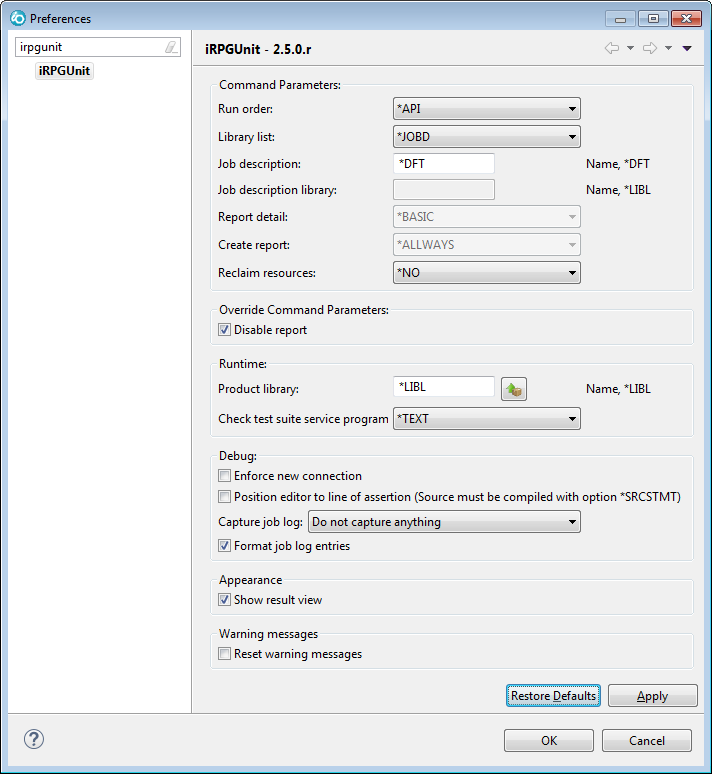
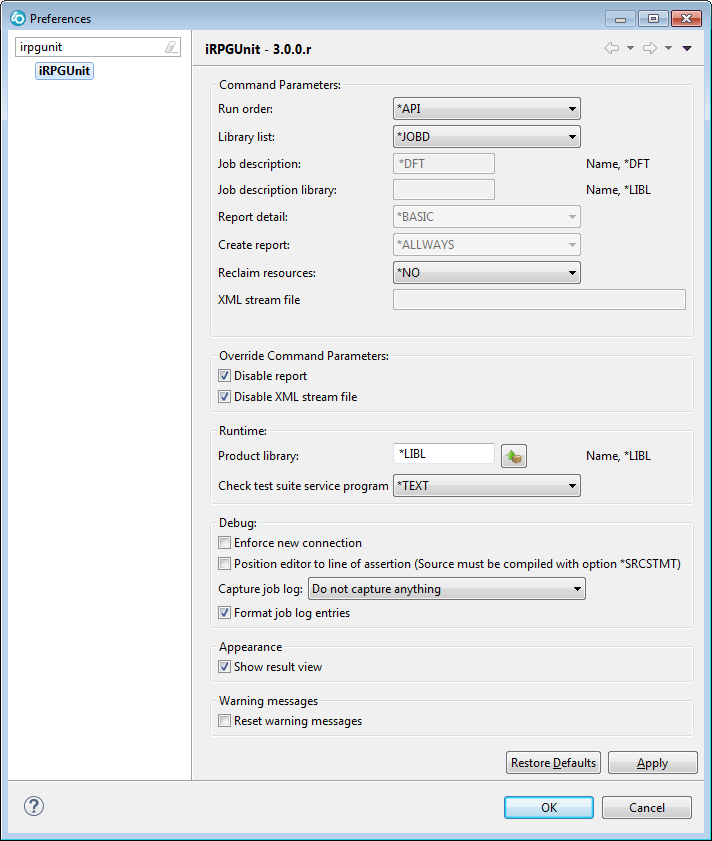
Added parameter 'XML stream file' to plug-in.

diff --git a/eclipse/iRPGUnit Help Plugin/html/quickstart/preferences.html b/eclipse/iRPGUnit Help Plugin/html/quickstart/preferences.html
@@ -108,6 +108,10 @@ Temporary disables the report, provided that <i>'Create report'</i> does not spe
 relates to button <i>'Disable iRPGUnit report'</i> of the <i>'iRPGUnit'</i> view.<p>
 <p>
 
+<h3>Disable XML stream file</h3>
+Temporary disables writing the XML stream file.
+<p>
+
 <h3>Product library</h3>
 Specifies the RPGUnit product library. This value is used to locate program 'RUPGMRMT' which is called from the 
 plug-in to execute the unit tests.<p>

diff --git a/eclipse/iRPGUnit Core Plugin/src/de/tools400/rpgunit/core/ui/preferences/PreferencesPage.java b/eclipse/iRPGUnit Core Plugin/src/de/tools400/rpgunit/core/ui/preferences/PreferencesPage.java
@@ -62,7 +62,11 @@ public class PreferencesPage extends PreferencePage implements IWorkbenchPrefere
 
     private Combo cboReclaimResources;
 
+    private Text txtXmlStmf;
+
     private Button chkDisableReport;
+
+    private Button chkDisableXmlStmf;
 
     private Text txtProductLibrary;
 
@@ -237,6 +241,17 @@ public class PreferencesPage extends PreferencePage implements IWorkbenchPrefere
         cboReclaimResources.setToolTipText(Messages.PreferencesPage2_cboReclaimResources_toolTipText);
         cboReclaimResources.setLayoutData(new GridData(SWT.FILL, SWT.CENTER, true, false, 1, 1));
         new Label(grpCommandParameters, SWT.NONE);
+
+        Label lblXmlStmf = new Label(grpCommandParameters, SWT.NONE);
+        GridData gd_lblXmlStmf = new GridData(SWT.LEFT, SWT.CENTER, false, false, 1, 1);
+        gd_lblXmlStmf.widthHint = COLUMN_1_WIDTH;
+        lblXmlStmf.setLayoutData(gd_lblXmlStmf);
+        lblXmlStmf.setText(Messages.PreferencesPage2_lblXmlStmf_text);
+
+        txtXmlStmf = new Text(grpCommandParameters, SWT.BORDER);
+        txtXmlStmf.setToolTipText(Messages.PreferencesPage2_txtXmlStmf_toolTipText);
+        txtXmlStmf.setLayoutData(new GridData(SWT.FILL, SWT.CENTER, true, false, 2, 1));
+        new Label(grpCommandParameters, SWT.NONE);
     }
 
     private void createGroupOverrideCommandParameters(Composite mainPanel) {
@@ -256,6 +271,16 @@ public class PreferencesPage extends PreferencePage implements IWorkbenchPrefere
         });
         chkDisableReport.setToolTipText(Messages.PreferencesPage2_chkDisableReport_toolTipText);
         chkDisableReport.setText(Messages.PreferencesPage2_chkDisableReport_text);
+
+        chkDisableXmlStmf = new Button(grpOverrideCommandParameters, SWT.CHECK);
+        chkDisableXmlStmf.addSelectionListener(new SelectionAdapter() {
+            @Override
+            public void widgetSelected(SelectionEvent e) {
+                updateXmlStmfControlsEnablement();
+            }
+        });
+        chkDisableXmlStmf.setToolTipText(Messages.PreferencesPage2_chkDisableXmlStmf_toolTipText);
+        chkDisableXmlStmf.setText(Messages.PreferencesPage2_chkDisableXmlStmf_text);
     }
 
     private void createGroupRuntimeParameters(Composite mainPanel) {
@@ -398,9 +423,11 @@ public class PreferencesPage extends PreferencePage implements IWorkbenchPrefere
         txtJobDesc.setText(getPreferences().getJobDescription().getName());
         txtJobDescLib.setText(getPreferences().getJobDescription().getLibrary());
         chkDisableReport.setSelection(getPreferences().isReportDisabled());
+        chkDisableXmlStmf.setSelection(getPreferences().isXmlStmfDisabled());
         cboReportDetail.setText(getPreferences().getDetail());
         cboCreateReport.setText(getPreferences().getOutput());
         cboReclaimResources.setText(getPreferences().getReclaimResources());
+        txtXmlStmf.setText(getPreferences().getXmlStmf());
         txtProductLibrary.setText(getPreferences().getProductLibrary());
         cboCheckTestSuite.setText(getPreferences().getCheckTestSuite());
         chkNewConnection.setSelection(getPreferences().mustCreateNewConnection());
@@ -419,8 +446,11 @@ public class PreferencesPage extends PreferencePage implements IWorkbenchPrefere
         txtJobDesc.setText(getPreferences().getDefaultJobDescription().getName());
         txtJobDescLib.setText(getPreferences().getDefaultJobDescription().getLibrary());
         chkDisableReport.setSelection(getPreferences().getDefaultReportDisabledState());
+        chkDisableXmlStmf.setSelection(getPreferences().getDefaultXmlStmfDisabledState());
         cboReportDetail.setText(getPreferences().getDefaultDetail());
         cboCreateReport.setText(getPreferences().getDefaultOutput());
+        cboReclaimResources.setText(getPreferences().getDefaultReclaimResources());
+        txtXmlStmf.setText(getPreferences().getDefaultXmlStmf());
         txtProductLibrary.setText(getPreferences().getDefaultProductLibrary());
         cboCheckTestSuite.setText(getPreferences().getDefaultCheckTestSuite());
         chkNewConnection.setSelection(getPreferences().getDefaultConnectionState());
@@ -431,6 +461,7 @@ public class PreferencesPage extends PreferencePage implements IWorkbenchPrefere
         chkWarnMessages.setSelection(false);
 
         updateReportControlsEnablement();
+        updateXmlStmfControlsEnablement();
     }
 
     @Override
@@ -448,8 +479,10 @@ public class PreferencesPage extends PreferencePage implements IWorkbenchPrefere
         tPreferences.setDetail(cboReportDetail.getText());
         tPreferences.setOutput(cboCreateReport.getText());
         tPreferences.setReclaimResources(cboReclaimResources.getText());
+        tPreferences.setXmlStmf(txtXmlStmf.getText());
 
         tPreferences.setReportDisabled(chkDisableReport.getSelection());
+        tPreferences.setXmlStmfDisabled(chkDisableXmlStmf.getSelection());
 
         tPreferences.setProductLibrary(txtProductLibrary.getText());
 
@@ -489,6 +522,7 @@ public class PreferencesPage extends PreferencePage implements IWorkbenchPrefere
     private void updateControlsOnEnterPage() {
         updateWarningMessagesControlsEnablement();
         updateReportControlsEnablement();
+        updateXmlStmfControlsEnablement();
 
         String[] tLibraryList = getPreferences().getLibraryList();
         if (tLibraryList.length == 1) {
@@ -521,6 +555,11 @@ public class PreferencesPage extends PreferencePage implements IWorkbenchPrefere
         boolean tEnabled = !chkDisableReport.getSelection();
         cboReportDetail.setEnabled(tEnabled);
         cboCreateReport.setEnabled(tEnabled);
+    }
+
+    private void updateXmlStmfControlsEnablement() {
+        boolean tEnabled = !chkDisableXmlStmf.getSelection();
+        txtXmlStmf.setEnabled(tEnabled);
     }
 
     private void updateJobDescriptionControlsEnablement(String aFirstLibraryListEntry) {

diff --git a/eclipse/iRPGUnit Core Plugin/src/de/tools400/rpgunit/core/preferences/Preferences.java b/eclipse/iRPGUnit Core Plugin/src/de/tools400/rpgunit/core/preferences/Preferences.java
@@ -102,6 +102,10 @@ public final class Preferences {
 
     public static final String RECLAIM_RESOURCES_ONCE = "*ONCE"; //$NON-NLS-1$
 
+    public static final String XML_STMF = RMTPGM + ".xmlStmf"; //$NON-NLS-1$
+
+    public static final String XML_STMF_NONE = ""; //$NON-NLS-1$
+
     /**
      * RPGUnit warning messages:
      */
@@ -127,6 +131,15 @@ public final class Preferences {
     public static final Boolean REPORT_DISABLED_TRUE = true;
 
     public static final Boolean REPORT_DISABLED_FALSE = false;
+
+    /**
+     * Values controlling xml stream file enablement:
+     */
+    public static final String XML_STMF_DISABLED = XML_STMF + ".disabled"; //$NON-NLS-1$
+
+    public static final Boolean XML_STMF_DISABLED_TRUE = true;
+
+    public static final Boolean XML_STMF_DISABLED_FALSE = false;
 
     /**
      * Product library.
@@ -280,8 +293,18 @@ public final class Preferences {
         return getReclaimResources();
     }
 
+    public String getXmlStmf() {
+        String tXmlStmf = preferenceStore.getString(XML_STMF);
+        return tXmlStmf;
+    }
+
     public boolean isReportDisabled() {
         boolean tIsDisabled = preferenceStore.getBoolean(REPORT_DISABLED);
+        return tIsDisabled;
+    }
+
+    public boolean isXmlStmfDisabled() {
+        boolean tIsDisabled = preferenceStore.getBoolean(XML_STMF_DISABLED);
         return tIsDisabled;
     }
 
@@ -407,6 +430,10 @@ public final class Preferences {
         saveReportDisabledState(aDisabled);
     }
 
+    public void setXmlStmfDisabled(boolean aDisabled) {
+        saveXmlStmfDisabledState(aDisabled);
+    }
+
     public void setDebugConnectionNew(boolean aCreateNew) {
         saveDebugConnectionState(aCreateNew);
     }
@@ -429,6 +456,10 @@ public final class Preferences {
 
     public void setReclaimResources(String aRclRsc) {
         saveReclaimResources(aRclRsc);
+    }
+
+    public void setXmlStmf(String aXmlStmf) {
+        saveXmlStmf(aXmlStmf);
     }
 
     public boolean useJobDescriptionForLibraryList() {
@@ -515,7 +546,9 @@ public final class Preferences {
         preferenceStore.setDefault(JOBD_LIBRARY, getDefaultJobDescription().getLibrary());
         preferenceStore.setDefault(REPORT_DETAIL, getDefaultDetail());
         preferenceStore.setDefault(REPORT_DISABLED, getDefaultReportDisabledState());
+        preferenceStore.setDefault(XML_STMF_DISABLED, getDefaultXmlStmfDisabledState());
         preferenceStore.setDefault(RECLAIM_RESOURCES, getDefaultReclaimResources());
+        preferenceStore.setDefault(XML_STMF, getDefaultXmlStmf());
 
         // Override command parameters
         preferenceStore.setDefault(OUTPUT, getDefaultOutput());
@@ -627,6 +660,10 @@ public final class Preferences {
         return REPORT_DISABLED_TRUE;
     }
 
+    public boolean getDefaultXmlStmfDisabledState() {
+        return XML_STMF_DISABLED_TRUE;
+    }
+
     public boolean getDefaultConnectionState() {
         return DEBUG_CONNECTION_REUSE;
     }
@@ -654,6 +691,10 @@ public final class Preferences {
 
     public String getDefaultReclaimResources() {
         return RECLAIM_RESOURCES_NO;
+    }
+
+    public String getDefaultXmlStmf() {
+        return XML_STMF_NONE;
     }
 
     public boolean getDefaultShowWarnMessages() {
@@ -748,6 +789,10 @@ public final class Preferences {
         preferenceStore.setValue(REPORT_DISABLED, aDisabled);
     }
 
+    private void saveXmlStmfDisabledState(boolean aDisabled) {
+        preferenceStore.setValue(XML_STMF_DISABLED, aDisabled);
+    }
+
     private void saveDebugConnectionState(boolean aCreateNew) {
         preferenceStore.setValue(DEBUG_CONNECTION, aCreateNew);
     }
@@ -770,6 +815,10 @@ public final class Preferences {
 
     private void saveReclaimResources(String aRclRsc) {
         preferenceStore.setValue(RECLAIM_RESOURCES, aRclRsc);
+    }
+
+    private void saveXmlStmf(String aXmlStmf) {
+        preferenceStore.setValue(XML_STMF, aXmlStmf);
     }
 
     private void saveShowWarningMessage(String aWarningKey, boolean showWarning) {

diff --git a/eclipse/iRPGUnit Core Plugin/src/de/tools400/rpgunit/core/jobs/ibmi/RPGUnitTestRunner.java b/eclipse/iRPGUnit Core Plugin/src/de/tools400/rpgunit/core/jobs/ibmi/RPGUnitTestRunner.java
@@ -138,14 +138,20 @@ public class RPGUnitTestRunner extends AbstractUnitTestRunner {
     private static final int PARM_JOB_DESCRIPTION = 8;
 
     /**
-     * Name of the test case to run, 10. Reclaim resources.
+     * Reclaim resources, 10. parameter of the test suite.
      */
     private static final int PARM_RECLAIM_RESOURCES = 9;
 
     /**
+     * Path of the XML stream file that contains the result, 11. parameter of
+     * the test suite.
+     */
+    private static final int PARM_XML_STMF = 10;
+
+    /**
      * Number of parameters of the remote test driver program.
      */
-    private static final int PARM_NUM_ENTRIES = 10;
+    private static final int PARM_NUM_ENTRIES = 11;
 
     /*
      * User space: Properties of the user space object.
@@ -523,6 +529,13 @@ public class RPGUnitTestRunner extends AbstractUnitTestRunner {
 
         // Parameter 10: Reclaim resources
         parameter[PARM_RECLAIM_RESOURCES] = produceStringParameter(Preferences.getInstance().getReclaimResources(), 10);
+
+        // Parameter 11: XML stream file
+        if (Preferences.getInstance().isXmlStmfDisabled()) {
+            parameter[PARM_XML_STMF] = produceStringParameter(Preferences.XML_STMF_NONE, 1024);
+        } else {
+            parameter[PARM_XML_STMF] = produceStringParameter(Preferences.getInstance().getXmlStmf(), 1024);
+        }
 
         return parameter;
     }

diff --git a/eclipse/iRPGUnit Core Plugin/src/de/tools400/rpgunit/core/Messages.java b/eclipse/iRPGUnit Core Plugin/src/de/tools400/rpgunit/core/Messages.java
@@ -97,9 +97,13 @@ public class Messages extends NLS {
     public static String PreferencesPage2_cboCreateReport_toolTipText;
     public static String PreferencesPage2_lblReclaimResources_text;
     public static String PreferencesPage2_cboReclaimResources_toolTipText;
+    public static String PreferencesPage2_lblXmlStmf_text;
+    public static String PreferencesPage2_txtXmlStmf_toolTipText;
     public static String PreferencesPage2_grpOverrideCommandParameters_text;
     public static String PreferencesPage2_chkDisableReport_text;
     public static String PreferencesPage2_chkDisableReport_toolTipText;
+    public static String PreferencesPage2_chkDisableXmlStmf_text;
+    public static String PreferencesPage2_chkDisableXmlStmf_toolTipText;
     public static String PreferencesPage2_grpRuntime_text;
     public static String PreferencesPage2_lblProductLibrary_text;
     public static String PreferencesPage2_lblCheckTestSuite_text;
